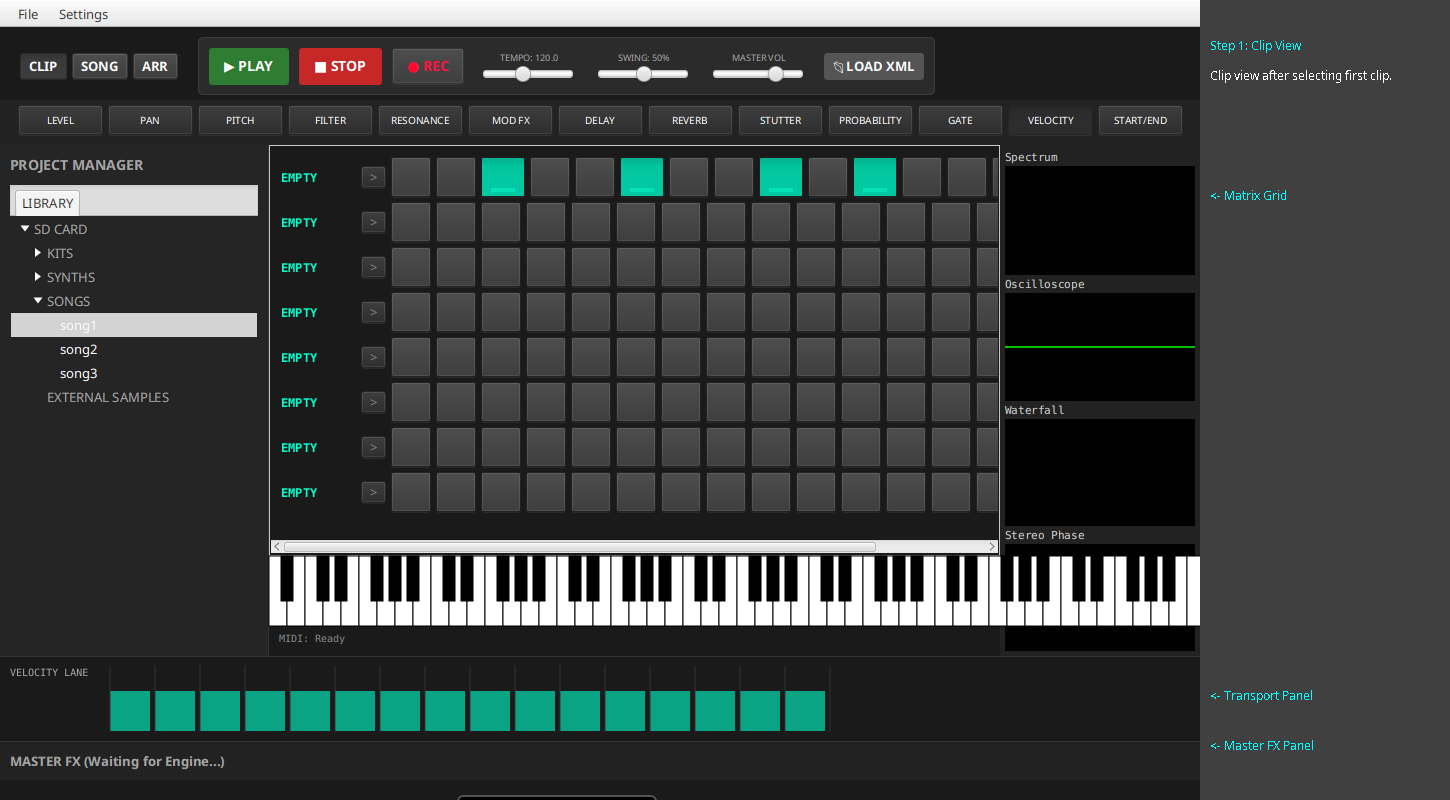
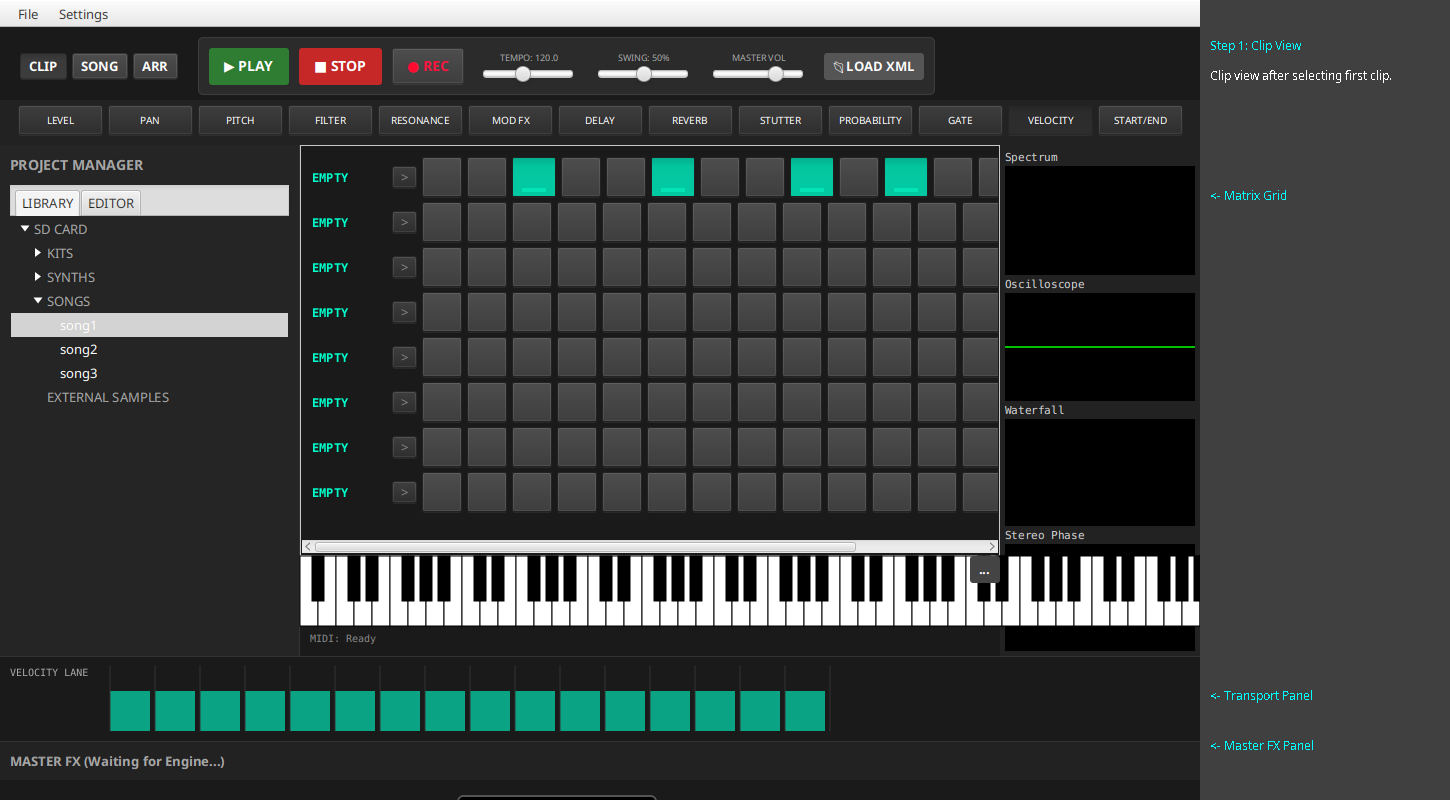
Fully integrate dynamic Sound Editor and visual walkthrough generation.

Changed region(s): [[0.1552, 0.1875, 0.6828, 0.6562], [0.1862, 0.6562, 0.8379, 0.8125], [0.0621, 0.2188, 0.0931, 0.2812]]

diff --git a/deluge/src/main/java/org/chuck/deluge/ui/song/SongModePanel.java b/deluge/src/main/java/org/chuck/deluge/ui/song/SongModePanel.java
@@ -73,6 +73,17 @@ public class SongModePanel extends VBox {
           org.chuck.deluge.model.TrackModel, org.chuck.deluge.model.ClipModel>
       onClipLaunched;
 
+  private java.util.function.BiConsumer<
+          org.chuck.deluge.model.TrackModel, org.chuck.deluge.model.ClipModel>
+      onEditPresetRequest;
+
+  public void setOnEditPresetRequest(
+      java.util.function.BiConsumer<
+              org.chuck.deluge.model.TrackModel, org.chuck.deluge.model.ClipModel>
+          callback) {
+    this.onEditPresetRequest = callback;
+  }
+
   public void setOnClipLaunched(
       java.util.function.BiConsumer<
               org.chuck.deluge.model.TrackModel, org.chuck.deluge.model.ClipModel>
@@ -203,6 +214,16 @@ public class SongModePanel extends VBox {
             });
 
         grid.add(muteBtn, numSlots + 3, rowIdx); // Column numSlots + 3
+
+        javafx.scene.control.Button editBtn = new javafx.scene.control.Button("E");
+        editBtn.setPrefWidth(35);
+        editBtn.setStyle("-fx-background-color: #444; -fx-text-fill: white;");
+        editBtn.setOnAction(ev -> {
+            if (onEditPresetRequest != null) {
+                onEditPresetRequest.accept(track, currentClip);
+            }
+        });
+        grid.add(editBtn, numSlots + 4, rowIdx); // Column numSlots + 4
 
         for (int s = 0; s < numSlots; s++) {
           ClipCell cell = new ClipCell(rowIdx, s);

diff --git a/deluge/src/main/java/org/chuck/deluge/ui/MatrixPanel.java b/deluge/src/main/java/org/chuck/deluge/ui/MatrixPanel.java
@@ -26,6 +26,11 @@ public class MatrixPanel extends BorderPane {
   private DelugeKeyboardPanel keyboardPanel;
   private int lastPlayedNote = -1;
   private java.util.function.Consumer<Integer> onTrackSelected;
+  private Runnable onEditPresetRequest;
+
+  public void setOnEditPresetRequest(Runnable callback) {
+    this.onEditPresetRequest = callback;
+  }
 
   public MatrixPanel(ChuckVM vm, BridgeContract bridge) {
     this.vm = vm;
@@ -44,7 +49,18 @@ public class MatrixPanel extends BorderPane {
     setCenter(scrollPane);
 
     keyboardPanel = new DelugeKeyboardPanel();
-    setBottom(keyboardPanel);
+    
+    javafx.scene.control.Button editPresetBtn = new javafx.scene.control.Button("🎹 EDIT PRESET");
+    editPresetBtn.setStyle("-fx-background-color: #444; -fx-text-fill: white; -fx-font-weight: bold;");
+    editPresetBtn.setOnAction(e -> {
+        if (onEditPresetRequest != null) {
+            onEditPresetRequest.run();
+        }
+    });
+    
+    javafx.scene.layout.HBox bottomBox = new javafx.scene.layout.HBox(10);
+    bottomBox.getChildren().addAll(keyboardPanel, editPresetBtn);
+    setBottom(bottomBox);
 
     createRows(8);
     selectTrack(0); // Default selection

diff --git a/deluge/src/test/java/org/chuck/deluge/ui/ScreenshotGenerator.java b/deluge/src/test/java/org/chuck/deluge/ui/ScreenshotGenerator.java
@@ -131,6 +131,15 @@ public class ScreenshotGenerator {
     runAndWait(() -> currentSnapshot = scene.snapshot(null));
     saveSnapshot(currentSnapshot, "../docs/step1_loaded_clipview.png", "Step 1: Clip View", "Clip view after selecting first clip.");
     
+    // Switch to Song View and open preset editor
+    runAndWait(() -> {
+        org.chuck.deluge.model.TrackModel track = mainPanel.getProjectModel().getTracks().get(0);
+        mainPanel.getSidebarPanel().getEditorPane().loadPreset(null, track.getName());
+        mainPanel.getSidebarPanel().focusEditorTab();
+    });
+    runAndWait(() -> currentSnapshot = scene.snapshot(null));
+    saveSnapshot(currentSnapshot, "../docs/preset_editor_annotated.png", "Preset Sound Editor", "Editing preset values visually in sidebar.");
+    
     // Step 2: Edit Cells
     runAndWait(() -> {
       bridge.setStep(0, 0, true);

diff --git a/deluge/src/main/java/org/chuck/deluge/ui/DelugeMainPanel.java b/deluge/src/main/java/org/chuck/deluge/ui/DelugeMainPanel.java
@@ -122,6 +122,18 @@ public class DelugeMainPanel extends BorderPane {
     ribbonPanel = new ParameterRibbonPanel(vm, bridge);
     statusPanel = new StatusRibbonPanel(vm, bridge);
 
+    songPanel.setOnEditPresetRequest((track, clip) -> {
+        sidebarPanel.getEditorPane().loadPreset(null, track.getName());
+        sidebarPanel.focusEditorTab();
+    });
+
+    matrixPanel.setOnEditPresetRequest(() -> {
+        if (projectModel.getTracks().isEmpty()) return;
+        org.chuck.deluge.model.TrackModel track = projectModel.getTracks().get(0);
+        sidebarPanel.getEditorPane().loadPreset(null, track.getName());
+        sidebarPanel.focusEditorTab();
+    });
+
     sidebarPanel = new ProjectSidebarPanel(vm, bridge);
     sidebarPanel.setOnPresetRequest(
         item -> {

diff --git a/deluge/src/main/java/org/chuck/deluge/ui/ProjectSidebarPanel.java b/deluge/src/main/java/org/chuck/deluge/ui/ProjectSidebarPanel.java
@@ -318,4 +318,15 @@ public class ProjectSidebarPanel extends VBox {
     }
     return presets;
   }
+
+  public PresetEditorPane getEditorPane() {
+    return editorPane;
+  }
+
+  public void focusEditorTab() {
+    javafx.application.Platform.runLater(() -> {
+      javafx.scene.control.TabPane tabs = (javafx.scene.control.TabPane) getChildren().get(1);
+      tabs.getSelectionModel().select(1);
+    });
+  }
 }

diff --git a/docs/DELUGE_GUIDEBOOK.md b/docs/DELUGE_GUIDEBOOK.md
@@ -61,6 +61,12 @@ This book is a formal reference to the ChucK-Java Deluge Workstation, built to m
 2. **Double-click on the row header** (the label on the left showing the clip name) to open it in the Clip Editor.
 3. The view will automatically switch to **CLIP** mode, and the Matrix grid will be populated with the sequence from that clip.
 
+▌ OPENING THE SOUND EDITOR
+1. In **SONG** view, locate the **E** button on the right side of the track row.
+2. Click it to focus and populate the dynamic **EDITOR** tab on the left sidebar, letting you tweak its parameters.
+
+---
+
 ▌ MUTING A TRACK
 1. In Song View, locate the **[M]** button on the right side of the track row (next to Launch and Color).
 2. Click it to mute the track. The button turns yellow.
@@ -153,6 +159,10 @@ Pressing the **● REC** button enables live recording mode. Incoming notes will
 ### Preferences Dialog
 The application preferences can be accessed via **Settings > Preferences...**.
 ![Preferences Dialog](preferences_dialog_annotated.png)
+
+### Preset Sound Editor
+Clicking the **E** button in Song View or the **🎹 EDIT PRESET** button at the bottom of the Clip View opens the Sound Editor.
+![Preset Sound Editor](preset_editor_annotated.png)
 
 
 ---
